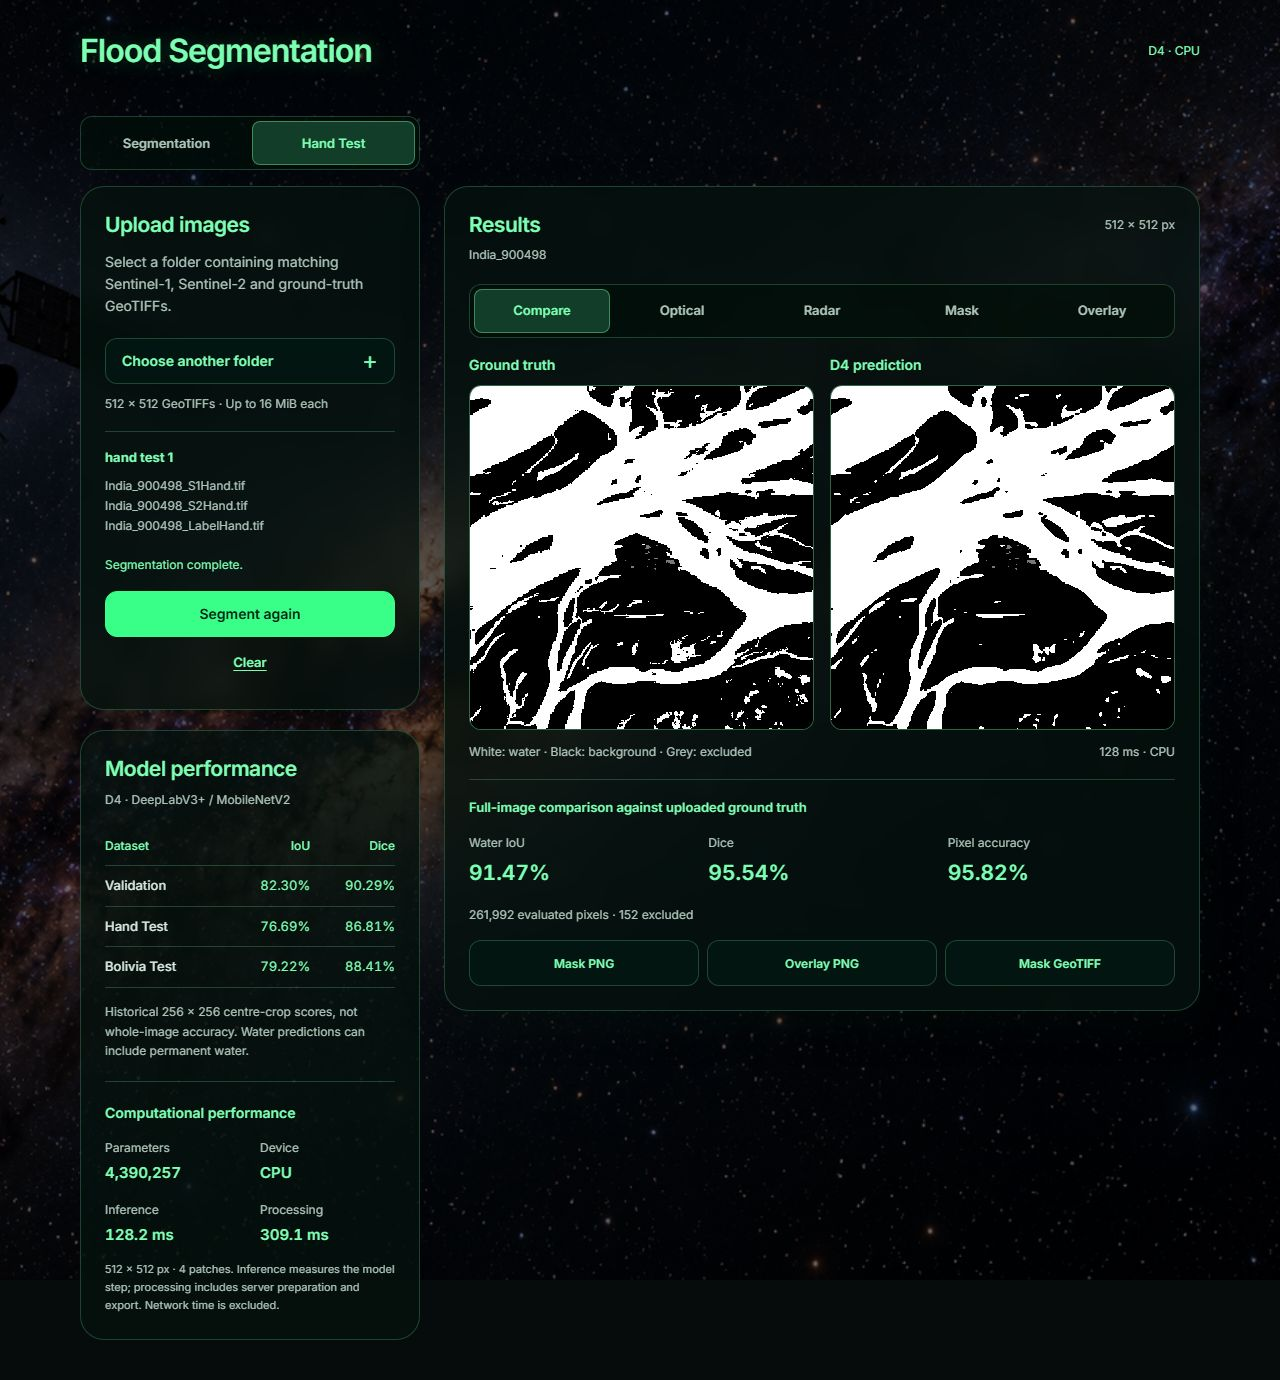
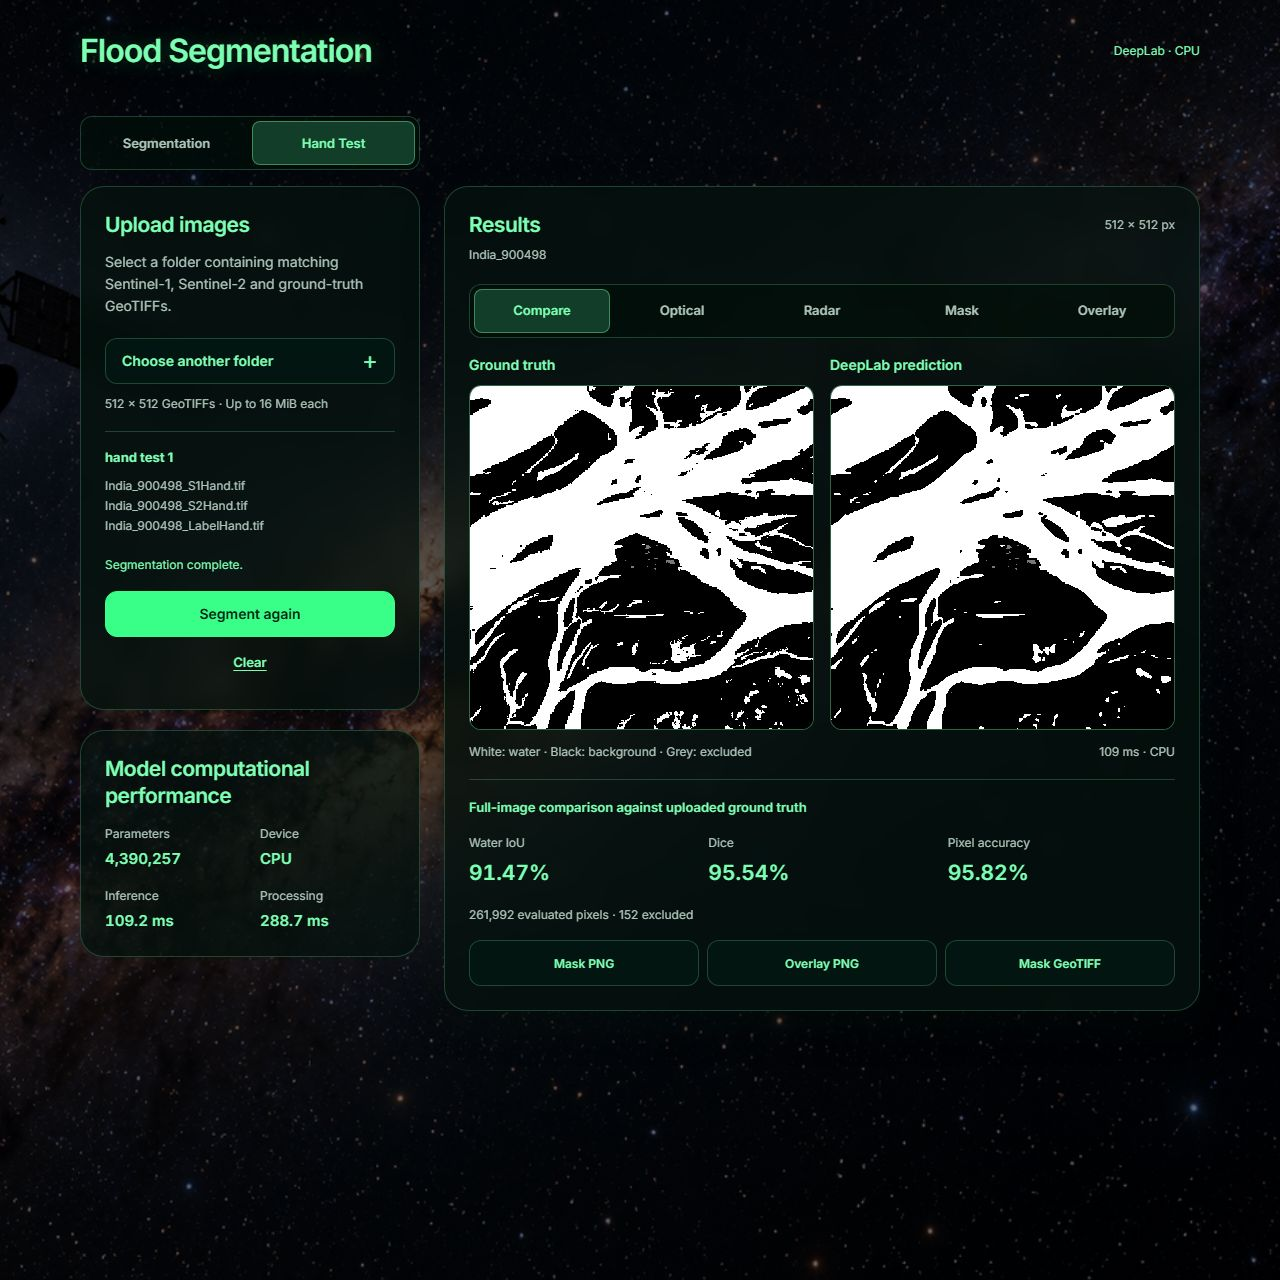
Simplify computational panel and display DeepLab labels

diff --git a/frontend/src/App.jsx b/frontend/src/App.jsx
@@ -68,7 +68,7 @@ export default function App() {
 
   return <>
     <a className="skip-link" href="#workspace">Skip to workspace</a>
-    <header className="site-header"><h1>Flood Segmentation</h1><span className="device-label">{info ? `D4 · ${info.device.toUpperCase()}` : serviceError ? 'Service offline' : 'Connecting…'}</span></header>
+    <header className="site-header"><h1>Flood Segmentation</h1><span className="device-label">{info ? `DeepLab · ${info.device.toUpperCase()}` : serviceError ? 'Service offline' : 'Connecting…'}</span></header>
     <main id="workspace" tabIndex={-1}>
       <div className="mode-tabs view-tabs" role="tablist" aria-label="Workspace" onKeyDown={navigateTabs}>{Object.entries(modes).map(([key, label]) => <button key={key} id={`tab-${key}`} type="button" role="tab" aria-selected={mode === key} aria-controls={`panel-${key}`} tabIndex={mode === key ? 0 : -1} disabled={busy} className={`view-tab ${mode === key ? 'active' : ''}`} onClick={() => setMode(key)}>{label}</button>)}</div>
       {Object.keys(modes).map(key => <div key={key} id={`panel-${key}`} role="tabpanel" aria-labelledby={`tab-${key}`} hidden={mode !== key}><Workspace mode={key} info={info} serviceError={serviceError} refreshService={refreshService} onBusyChange={reportBusy} /></div>)}
@@ -182,19 +182,13 @@ function Workspace({ mode, info, serviceError, refreshService, onBusyChange }) {
           </aside>
 
           <section className="hud-panel performance-panel" aria-labelledby={`${mode}-performance-title`}>
-            <h2 id={`${mode}-performance-title`}>Model performance</h2>
-            <p className="model-name">D4 · DeepLabV3+ / MobileNetV2</p>
-            {info ? <table><caption className="sr-only">Historical D4 centre-crop IoU and Dice scores</caption><thead><tr><th scope="col">Dataset</th><th scope="col">IoU</th><th scope="col">Dice</th></tr></thead><tbody>{info.metrics.map(metric => <tr key={metric.dataset}><th scope="row">{metric.dataset}</th><td>{formatPercent(metric.iou)}</td><td>{formatPercent(metric.dice)}</td></tr>)}</tbody></table> : <p className="metrics-status">{serviceError ? 'Model metrics unavailable.' : 'Loading metrics…'}</p>}
-            <div className="compute-section" aria-labelledby={`${mode}-compute-title`}>
-              <h3 id={`${mode}-compute-title`}>Computational performance</h3>
+            <h2 id={`${mode}-performance-title`}>Model computational performance</h2>
               <dl className="compute-metrics">
                 <div><dt>Parameters</dt><dd>{info ? info.parameter_count.toLocaleString('en-US') : 'Unavailable'}</dd></div>
                 <div><dt>Device</dt><dd>{info ? info.device.toUpperCase() : 'Unavailable'}</dd></div>
                 <div><dt>Inference</dt><dd>{result ? `${result.inference_ms.toFixed(1)} ms` : 'Awaiting run'}</dd></div>
                 <div><dt>Processing</dt><dd>{result ? `${result.processing_ms.toFixed(1)} ms` : 'Awaiting run'}</dd></div>
               </dl>
-              <p className="compute-note">{result ? `${result.width} × ${result.height} px · ${result.patch_count} patches. ` : 'Per 512 × 512 image, four patches. '}Inference measures the model step; processing includes server preparation and export. Network time is excluded.</p>
-            </div>
           </section>
         </div>
 
@@ -205,7 +199,7 @@ function Workspace({ mode, info, serviceError, refreshService, onBusyChange }) {
             <div className="viewer-body">
             {source && view === 'compare' ? <div className="comparison-grid">
               <figure><figcaption>Ground truth</figcaption><div className="image-stage"><img className="comparison-image" src={source.ground_truth} alt={`Ground truth for ${pair.tileId}`} width="512" height="512" /></div></figure>
-              <figure><figcaption>D4 prediction</figcaption><div className={`image-stage ${!result ? 'empty-stage' : ''}`}>{result ? <img className="comparison-image" src={source.comparison_prediction} alt={`D4 prediction for ${pair.tileId}`} width="512" height="512" /> : <p className="empty-copy">Click Segment image to show the prediction.</p>}</div></figure>
+              <figure><figcaption>DeepLab prediction</figcaption><div className={`image-stage ${!result ? 'empty-stage' : ''}`}>{result ? <img className="comparison-image" src={source.comparison_prediction} alt={`DeepLab prediction for ${pair.tileId}`} width="512" height="512" /> : <p className="empty-copy">Click Segment image to show the prediction.</p>}</div></figure>
             </div> : <div className={`image-stage ${!source ? 'empty-stage' : ''}`}>
               {source ? <>
                 <img className="main-image" src={view === 'overlay' ? source.rgb : source[view]} alt={`${labels[view]} view of ${pair.tileId}`} width="512" height="512" />

diff --git a/frontend/src/styles.css b/frontend/src/styles.css
@@ -49,19 +49,9 @@ h3 { color: var(--accent); font-size: 14px; font-weight: 600; line-height: 1.5; 
 .text-button { color: var(--accent); border: 0; background: transparent; font-size: 13px; font-weight: 600; text-decoration: underline; text-underline-offset: 3px; min-height: 44px; }
 .clear-button { display: block; margin: 4px auto 0; }
 .text-button:disabled { color: #92aa9e; }
-.model-name { font-size: 12px; color: var(--muted); margin-top: 8px; line-height: 1.6; }
-.accuracy-note, .metrics-status, .compute-note { font-size: 12px; line-height: 1.65; color: var(--muted); margin-top: 14px; }
-table { width: 100%; margin-top: 18px; border-collapse: collapse; font-size: 13px; }
-th, td { text-align: right; padding: 10px 0; border-bottom: 1px solid var(--line); font-variant-numeric: tabular-nums; }
-th:first-child { text-align: left; }
-thead th { font-weight: 500; color: var(--accent); font-size: 12px; }
-tbody th { font-weight: 500; }
-td { color: var(--accent); }
-.compute-section { border-top: 1px solid var(--line); padding-top: 20px; margin-top: 20px; }
 .compute-metrics { display: grid; grid-template-columns: repeat(2, minmax(0, 1fr)); column-gap: 20px; row-gap: 16px; margin: 16px 0 0; }
 .compute-metrics dt { color: var(--muted); font-size: 12px; margin-bottom: 5px; }
 .compute-metrics dd { color: var(--accent); font-size: 15px; font-weight: 600; font-variant-numeric: tabular-nums; margin: 0; overflow-wrap: anywhere; }
-.compute-note { font-size: 11px; }
 .mode-tabs { max-width: 340px; margin: 0 0 24px; }
 [role="tabpanel"][hidden] { display: none; }
 .viewer-body { position: relative; }

diff --git a/frontend/index.html b/frontend/index.html
@@ -4,8 +4,8 @@
     <meta charset="UTF-8" />
     <meta name="viewport" content="width=device-width, initial-scale=1.0" />
     <meta name="theme-color" content="#fbfbf9" />
-    <meta name="description" content="A local flood segmentation workspace using the trained D4 DeepLabV3+ model and paired Sentinel imagery." />
-    <title>Flood segmentation · D4</title>
+    <meta name="description" content="A local flood segmentation workspace using the trained DeepLab model and paired Sentinel imagery." />
+    <title>Flood segmentation · DeepLab</title>
   </head>
   <body>
     <div id="root"></div>

diff --git a/README.md b/README.md
@@ -197,7 +197,7 @@ Set `UI_BASE_URL` to change the browser test address. `PLAYWRIGHT_CHROMIUM_EXECU
 
 React / Vite / Tailwind / Axios frontend; FastAPI / PyTorch / Rasterio / NumPy / Pillow / OpenCV backend; Nginx; Docker Compose. No database, accounts, or cloud hosting.
 
-The UI keeps the original satellite-and-star-field background, with dark transparent panels, self-hosted Inter, neon green controls and a compact model-performance table. Computational performance shows the model parameter count, actual device, measured inference latency and server processing time for each prediction. Timings cover the full image's four patches and exclude network time; no runtime figures are invented before prediction. The background and all runtime assets are bundled locally. See `docs/DESIGN_NOTES.md` for decisions and image-generation provenance, and `docs/VERIFICATION.md` for testing and the antislop Delivery Gate.
+The UI keeps the original satellite-and-star-field background, with dark transparent panels, self-hosted Inter and neon green controls. The sidebar contains only **Model computational performance**: parameter count, device, measured inference latency and server processing time. Its historical accuracy table and explanatory text have been removed. Visible model labels use **DeepLab**; the D4 research identity remains in backend metadata and provenance. Hand Test comparison scores remain below the masks. Timings cover the full image's four patches and exclude network time; no runtime figures are invented before prediction. The background and all runtime assets are bundled locally. See `docs/DESIGN_NOTES.md` for decisions and image-generation provenance, and `docs/VERIFICATION.md` for testing and the antislop Delivery Gate.
 
 ### Actual prediction example
 

diff --git a/docs/DESIGN_NOTES.md b/docs/DESIGN_NOTES.md
@@ -20,8 +20,9 @@ The space-dashboard brief replaces cream panels and the red action with dark gre
 | Restrained title glow and primary hover glow | Establish space identity and action feedback without glowing every border, value and control. |
 | One tinted shadow on results | Elevate the scientific image as the main workspace. |
 | Natural square satellite previews | Preserve geography and raster proportions in every view. |
-| Compact performance table | Retain sourced Validation, Hand Test and Bolivia Test IoU/Dice values, plus the centre-crop limitation. |
-| Computational metrics below accuracy | Show exact API parameter count and device, then measured inference and server processing times only after a real prediction. No estimated FPS, VRAM or FLOPs. |
+| Computational-only sidebar | Follow the owner's simplification: one Model computational performance heading and four values, without a historical accuracy table or small explanatory text. |
+| DeepLab model label | Use the owner's requested short name in the header, comparison caption, image alt text and page title; retain D4 provenance in scientific metadata. |
+| Four computational values | Show exact API parameter count and device, then measured inference and server processing times only after a real prediction. No estimated FPS, VRAM or FLOPs. |
 | Blue overlay and explicit legend | Distinguish model output from natural-colour imagery; this is a data colour, not a second primary UI action. |
 | Minimal motion | Indicate real processing and control state without distracting from image comparison. |
 | One fixed dark appearance | Follow the owner's explicit space-dashboard brief without adding a theme toggle. |

diff --git a/docs/VERIFICATION.md b/docs/VERIFICATION.md
@@ -1,5 +1,11 @@
 # Verification record
 
+## Computational-only sidebar, 27 October 2026
+
+Removed the sidebar's historical accuracy table, model subtitle, duplicate computational subheading and small resolution/timing explanation. It now contains one **Model computational performance** heading and Parameters, Device, Inference and Processing values. Header, comparison caption, image alt text and browser title use **DeepLab** instead of D4. Hand Test comparison scores, upload requirements and result controls remain unchanged. Model identity and historical scores are still retained in scientific metadata and documentation.
+
+The 12 frontend tests and production build passed, and the actual frontend/Nginx container was rebuilt and recreated on port 8081. Browser regression checks verified the new heading, absent table/notes, DeepLab title/labels, both original workflows, current Hand Test scores, downloads, opacity, clear/re-upload, errors, recovery, keyboard navigation and 320/390/768/1280px layouts. Screenshots were refreshed and visually inspected. No backend, model or dataset files were changed, so the previously passing 38 Python tests were not repeated for this presentation-only edit. Antislop Delivery Gate remains PASS.
+
 ## Hand Test comparison, 27 October 2026
 
 Branch: `hand-test-data`, based on `ui-enhancement`. The original Segmentation tab, background, checkpoint, normalization, four-patch inference, threshold and historical metrics are preserved. Only separate reference-validation/comparison behavior and the requested workspace tab were added.

diff --git a/docs/ANTISLOP_GATE.md b/docs/ANTISLOP_GATE.md
@@ -8,7 +8,7 @@ Scope: Hand Test comparison addition on branch `hand-test-data`. Source Docker b
 
 - R-02 PASS: authored interface copy contains no em dash.
 - R-03 PASS: actual client/scroll widths match at 320, 390, 768 and 1280px; controls meet 44px minimum height.
-- R-17 PASS: model facts/timing come from APIs; live scores come from the uploaded reference and prediction. All ten were independently recomputed. Historical accuracy remains labelled centre-crop and selected examples are not presented as a representative benchmark.
+- R-17 PASS: model facts/timing come from APIs; live Hand Test scores come from the uploaded reference and prediction. All ten were independently recomputed. Historical accuracy is retained only in metadata/documentation, not the simplified sidebar; selected examples are not presented as a representative benchmark.
 - R-18 PASS: no testimonials or invented identities.
 - R-23 PASS: no new decorative asset; original background bytes retained. Ten sample triplets and comparison metrics were explicitly requested.
 - R-24 PASS: skip link targets the workspace; both new workspace tabs target real labelled tab panels.
